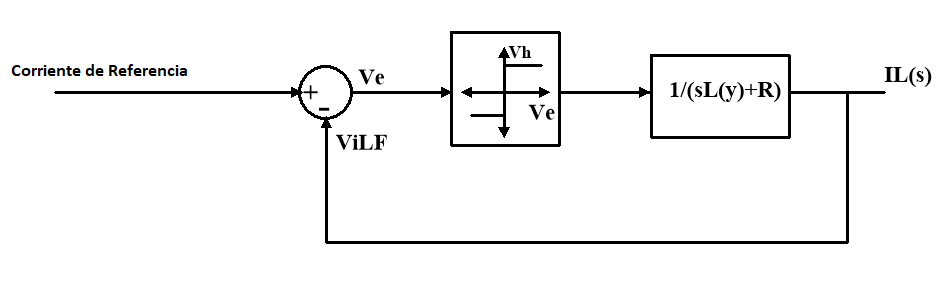
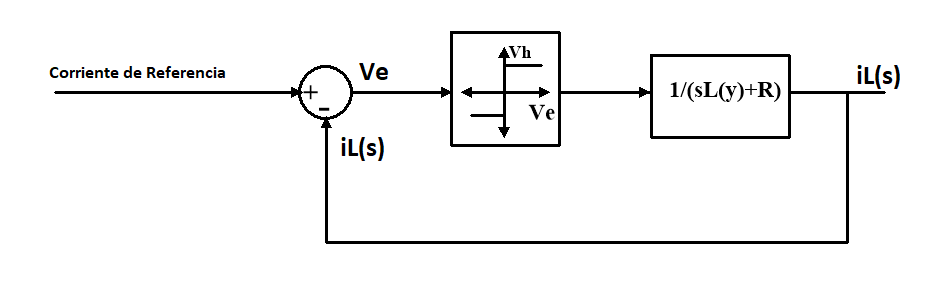
cambio imagenes diag en bloques

diff --git a/Informe final/Proyecto Levitador LaTeX/Informe/4-ControladorCorriente/ControladorCorriente.tex b/Informe final/Proyecto Levitador LaTeX/Informe/4-ControladorCorriente/ControladorCorriente.tex
@@ -144,7 +144,7 @@ Es importante tener en cuenta que sólo se permite que dos llaves se enciendan a
 
 Como se menciono previamente, para poder generar una corriente triangular con un valor medio deseado es necesario controlar el tiempo que se le aplica cierta polaridad de tensión al electroimán. Para poder controlar dicha polaridad, se debe actuar sobre las llaves en función de si se desea aumentar o disminuir el valor medio de la corriente. 
 
-Una manera de hacerlo es mediante un circuito que compare la corriente de referencia con la corriente que está circulando por el electroimán. De esta forma, si la corriente es menor a la de referencia, la polaridad de la tensión aplicada en los bornes del electroimán, será positiva. En cambio, si resulta mayor, será negativa. De esta forma, la corriente aumenta y disminuye respectivamente. Por lo tanto se plantea el siguiente diagrama\ref{fig:img_diag-en-bloques-comparador-sin-hist}:
+Una manera de hacerlo es mediante un circuito que compare la corriente de referencia q con la corriente que está circulando por el electroimán. De esta forma, si la corriente es menor a la de referencia, la polaridad de la tensión aplicada en los bornes del electroimán, será positiva. En cambio, si resulta mayor, será negativa. De esta forma, la corriente aumenta y disminuye respectivamente. Por lo tanto se plantea el siguiente diagrama\ref{fig:img_diag-en-bloques-comparador-sin-hist}:
 
 \begin{figure}[H]
 	\centering
@@ -153,13 +153,9 @@ Una manera de hacerlo es mediante un circuito que compare la corriente de refere
 	\label{fig:img_diag-en-bloques-comparador-sin-hist}
 \end{figure}
 
+Con el circuito planteado hasta ahora, una vez que la corriente del electroimán(IL(s)) supere infinitesimalmente a la referencia, se produciría una conmutación en la polaridad de tensión aplicada al electroimán. Lo mismo sucedería cuando sea infinitesimalmetne menor. Esto produciría conmutaciones extremadamente rápidas en torno al valor medio y sería necesario alta velocidad en conmutación. Por lo tanto, para evitar esas oscilaciones, es necesario agregar un retraso de tiempo para evitar que la fuente conmute de forma indeseada.
 
-
-Con el circuito planteado hasta ahora, una vez que la corriente del electroimán supere infinitesimalmente a la referencia, se produciría una conmutación en la polaridad de tensión aplicada al electroimán. Lo mismo sucedería cuando sea infinitesimalmetne menor. Esto produciría conmutaciones extremadamente rápidas en torno al valor medio y sería necesario alta velocidad en conmutación. Por lo tanto, para evitar esas oscilaciones, es necesario agregar un retraso de tiempo para evitar que la fuente conmute de forma indeseada.
-
-Una manera de hacerlo es mediante un comparador con histéresis. Este bloque compara la corriente de referencia con la que está circulando por el electroimán y permite definir un ancho de histeresis. De esta forma en caso de que esta última sea menor que la referencia, la polaridad de tensión aplicada al electroimán será positiva y, por ende, la corriente aumentara hasta alcanzar la referencia. Una vez superada la referencia, se volverá a cambiar la polaridad en el electoimán, pero esta vez será negativa, haciendo que el valor medio de la corriente disminuya. Debido a que lo unico que cambia es el valor de tension en modulo con el que se exita al electroiman la constante de tiempo del circuito no cambia. 
-
-Esto da como resultado a que la corriente oscile sobre un valor medio de forma triangular. El valor de el ripple de corriente esta determinado por el periodo de conmutacion de la fuentes. Estos parametros pueden ser definidos ajustando el ancho de histeresis. 
+Una manera de hacerlo es mediante un comparador con histéresis. Este bloque compara la corriente de referencia con la que está circulando por el electroimán y permite definir un ancho de histeresis. De esta forma en caso de que esta última sea menor que la referencia, la polaridad de tensión aplicada al electroimán será positiva y, por ende, la corriente aumentara hasta alcanzar la referencia. Una vez superada la referencia, se volverá a cambiar la polaridad en el electoimán, pero esta vez será negativa, haciendo que el valor medio de la corriente disminuya. Debido a que lo unico que cambia es el valor de tension en modulo con el que se exita al electroiman la constante de tiempo del circuito no cambia. Esto da como resultado a que la corriente oscile sobre un valor medio de forma triangular. El valor de el ripple de corriente esta determinado por el periodo de conmutacion de la fuentes. Estos parametros pueden ser definidos ajustando el ancho de histeresis. 
 
 Finalmente se obtiene un modelo en bloques del sistema como se ve en la figura \ref{fig:img_diag-en-bloques}.
 
